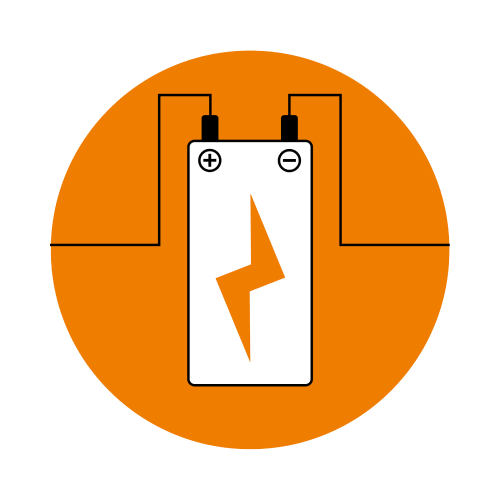
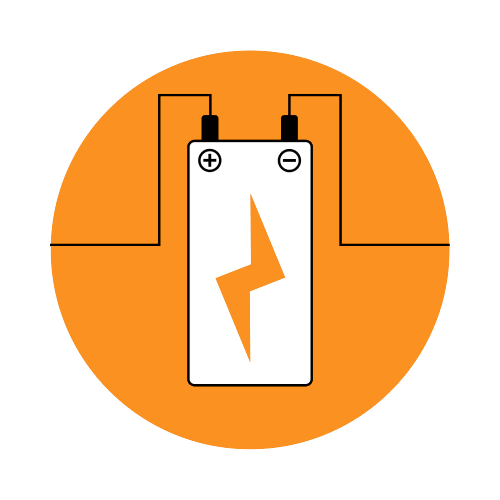
rewrote text in index.html, changed the color

diff --git a/views/index.html b/views/index.html
@@ -189,7 +189,7 @@
 
             <div class="partner__content text-center">
               <h1 class="fs-2"><%=L('index33', language, 'Наши партнеры') %></h1>
-              <p class="w-75 mx-auto mb-5"><%=L('index34', language, 'Мы работаем только с лучшими производителями, которые делают постоянные инвестиции в развитие новых технологий. Наша компания является дистрибьютором и партнером') %>:</p>
+              <p class="w-75 mx-auto mb-5"><%=L('index34', language, 'Нам доверяют такие крупные компании, как Корпорация «BI GROUP», Корпорация «ORDA INVEST», Корпорация «Bazis Construction», АО «Қазақстан темір жолы», АО «КазТрансОйс», АО «КЕGOC», АО «Мангистаумунайгаз», АО «Озенмунайгаз», АО «Каражанбасмунай», АО «Ульбинский металлургический завод», Государственный театр оперы и балета «Астана Опера», ГКП «Кызылордасужуйеси», ТОО «Асти- Строй», ТОО «ASTI», ТОО «Ақ Қайық», Корпорация «TUMAR GROUP» и другие партнеры') %>:</p>
             </div>
             <section id="companies-slider" class="splide" aria-label="Splide Basic HTML Example">
               <div class="splide__track text-center">

diff --git a/public/css/common.css b/public/css/common.css
@@ -1,3 +1,8 @@
+:root {
+    --main-color: #fa9120;
+    --main-hover-color: #ff8400;;
+}
+
 body {
     background-image: url(/public/images/main-bg.png);
     background-size: cover;
@@ -19,7 +24,7 @@ main {
 }
 
 #submit-request-modal .request-modal__btn:hover {
-    background-color: #ff8400 !important;
+    background-color: var(--main-hover-color) !important;
 }
 
 #submit-request-modal .order_form {
@@ -47,19 +52,19 @@ main {
 }
 
 .text-orange {
-    color: #E87900 !important;
+    color: var(--main-color) !important;
 }
 
 .background-orange {
-    background-color: #E87900 !important;
+    background-color: var(--main-color) !important;
 }
 
 .background-orange:hover {
-    background-color: #ff8400 !important;;
+    background-color: var(--main-hover-color) !important;;
 }
 
 .border-orange {
-    border-color: #E87900 !important;
+    border-color: var(--main-color) !important;
 }
 
 .accordion-item {
@@ -68,7 +73,7 @@ main {
 
 .accordion-header {
     margin-top: 0;
-    background-color: #E87900;
+    background-color: var(--main-color);
 }
 
 .accordion-body {
@@ -80,7 +85,7 @@ main {
 }
 
 .accordion-button:focus {
-    background-color: #E87900;
+    background-color: var(--main-color);
     box-shadow: 0 0 0 .1rem #f09431;
 }
 

diff --git a/public/css/service.css b/public/css/service.css
@@ -8,14 +8,14 @@
 }
 
 .service__inner {
-    border-bottom: 1px solid #E87900;
+    border-bottom: 1px solid var(--main-color);
     padding-bottom: 2rem;
 }
 
 .service__content {
     width: 50%;
     padding: 2rem;
-    border: 2px solid #E87900;
+    border: 2px solid var(--main-color);
     border-radius: 1rem;
 }
 
@@ -35,7 +35,7 @@
 }
 
 .request-modal__btn:hover {
-    background-color: #ff8400 !important;
+    background-color: var(--main-hover-color) !important;
 }
 
 

diff --git a/public/css/landing.css b/public/css/landing.css
@@ -1,7 +1,7 @@
 /* Intro */
 .intro {
     min-height: 80vh;
-    background-color: #E87900;
+    background-color: var(--main-color);
 
     display: flex;
     justify-content: center;
@@ -116,7 +116,7 @@
 /* Video */
 
 .video__inner {
-    background-color: #E87900;
+    background-color: var(--main-color);
     padding: 2rem 0;
 }
 

diff --git a/public/css/certificate.css b/public/css/certificate.css
@@ -14,11 +14,11 @@
 }
 
 .upload__element a {
-    color: #E87900;
+    color: var(--main-color);
 }
 
 .upload__block a {
-    color: #E87900;
+    color: var(--main-color);
 }
 
 .upload__block {
